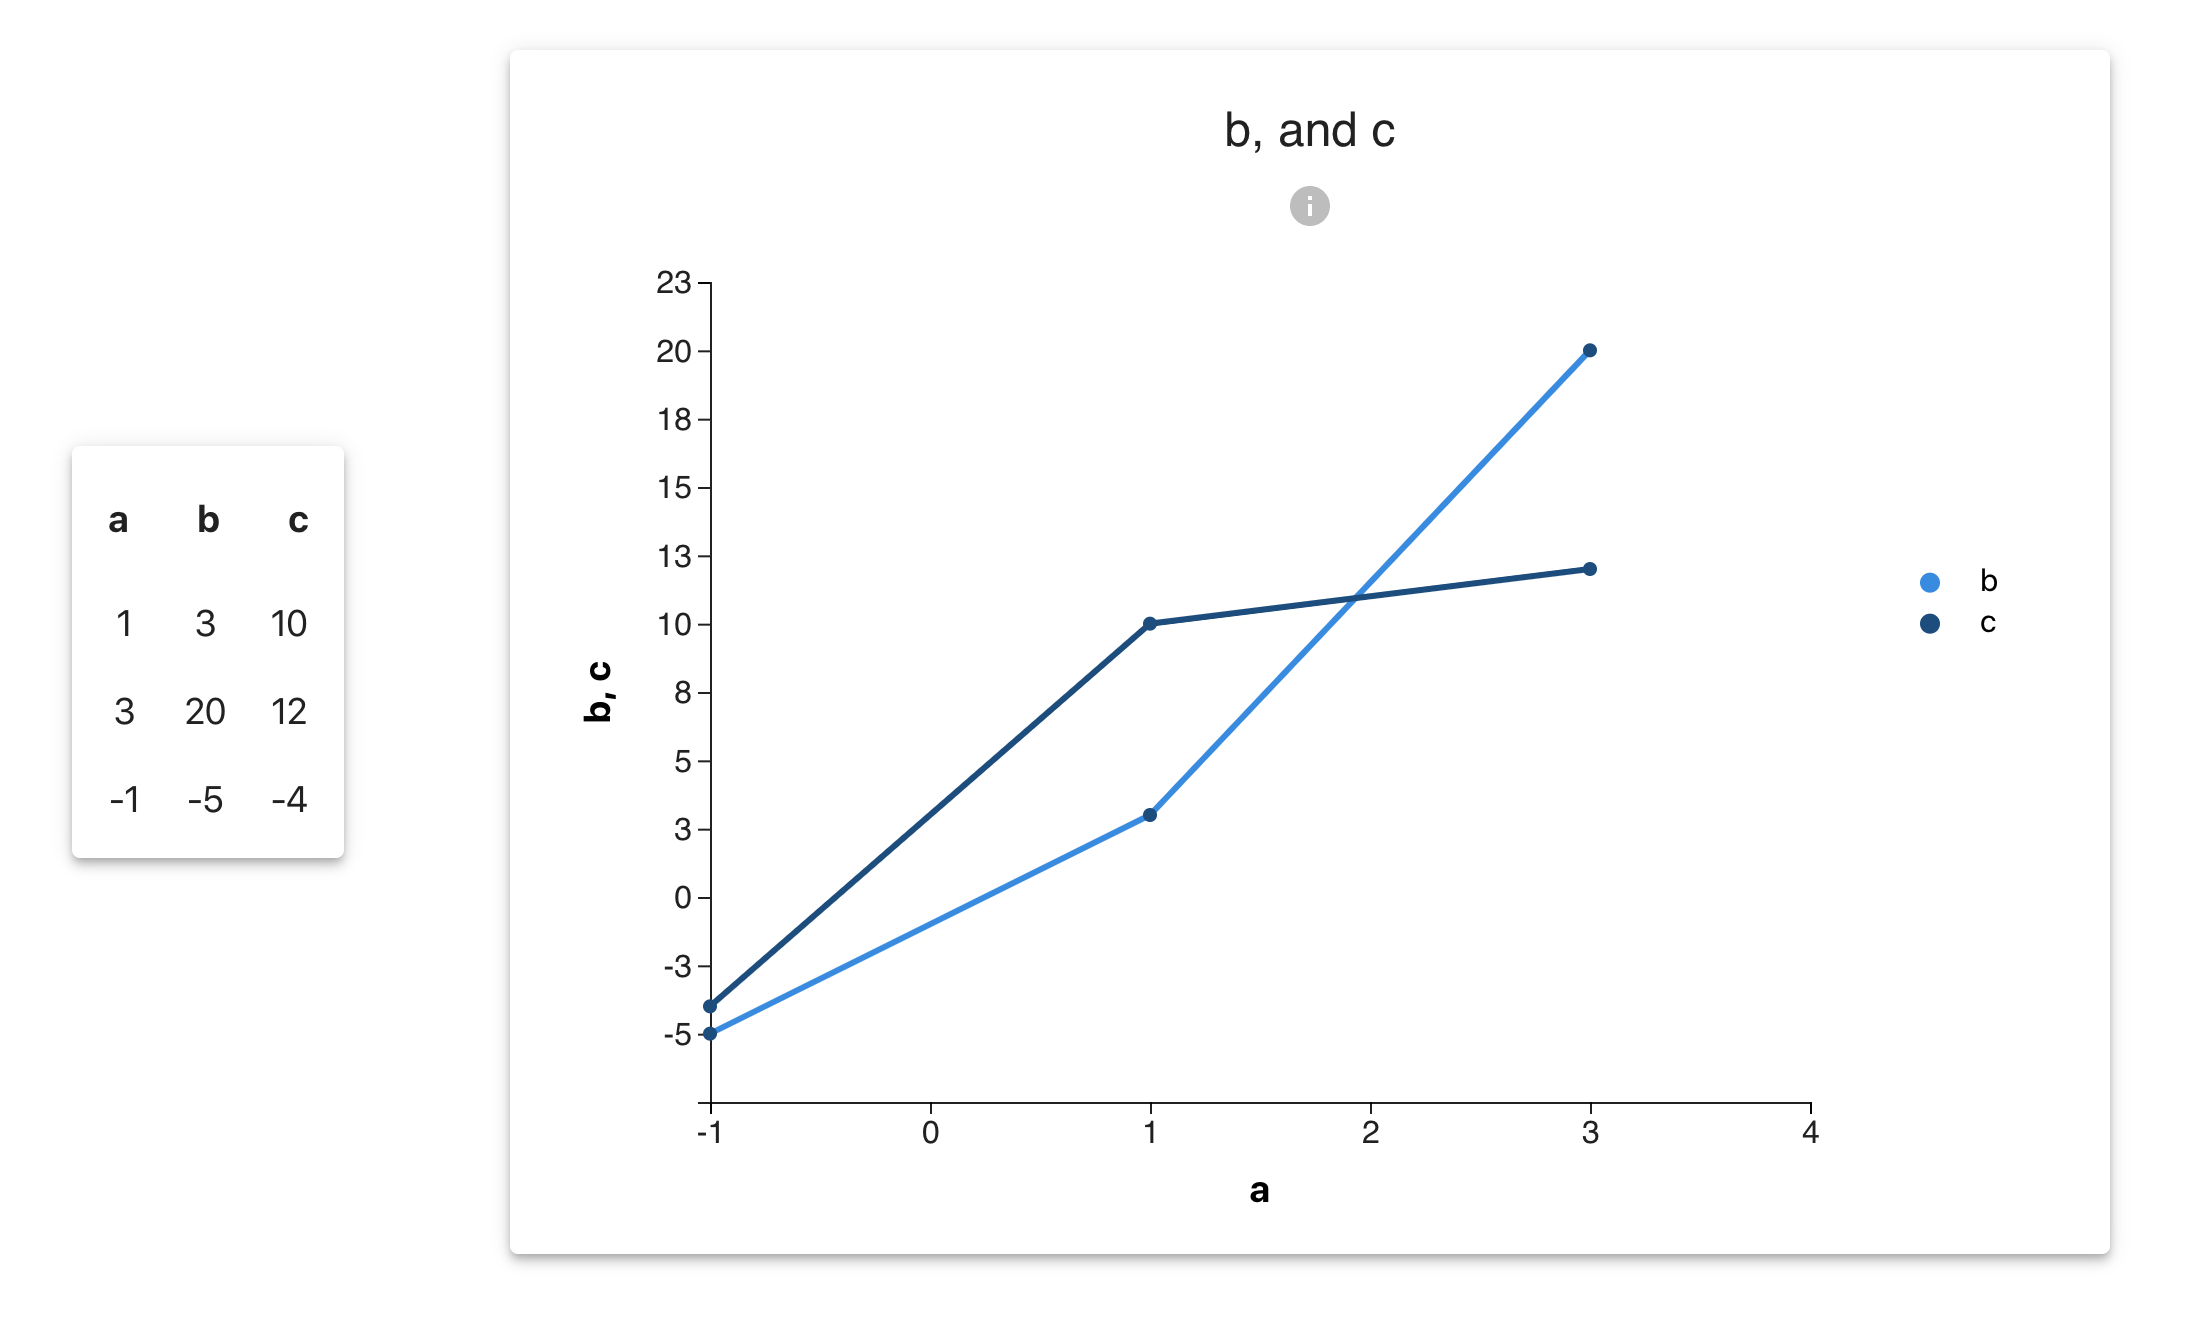
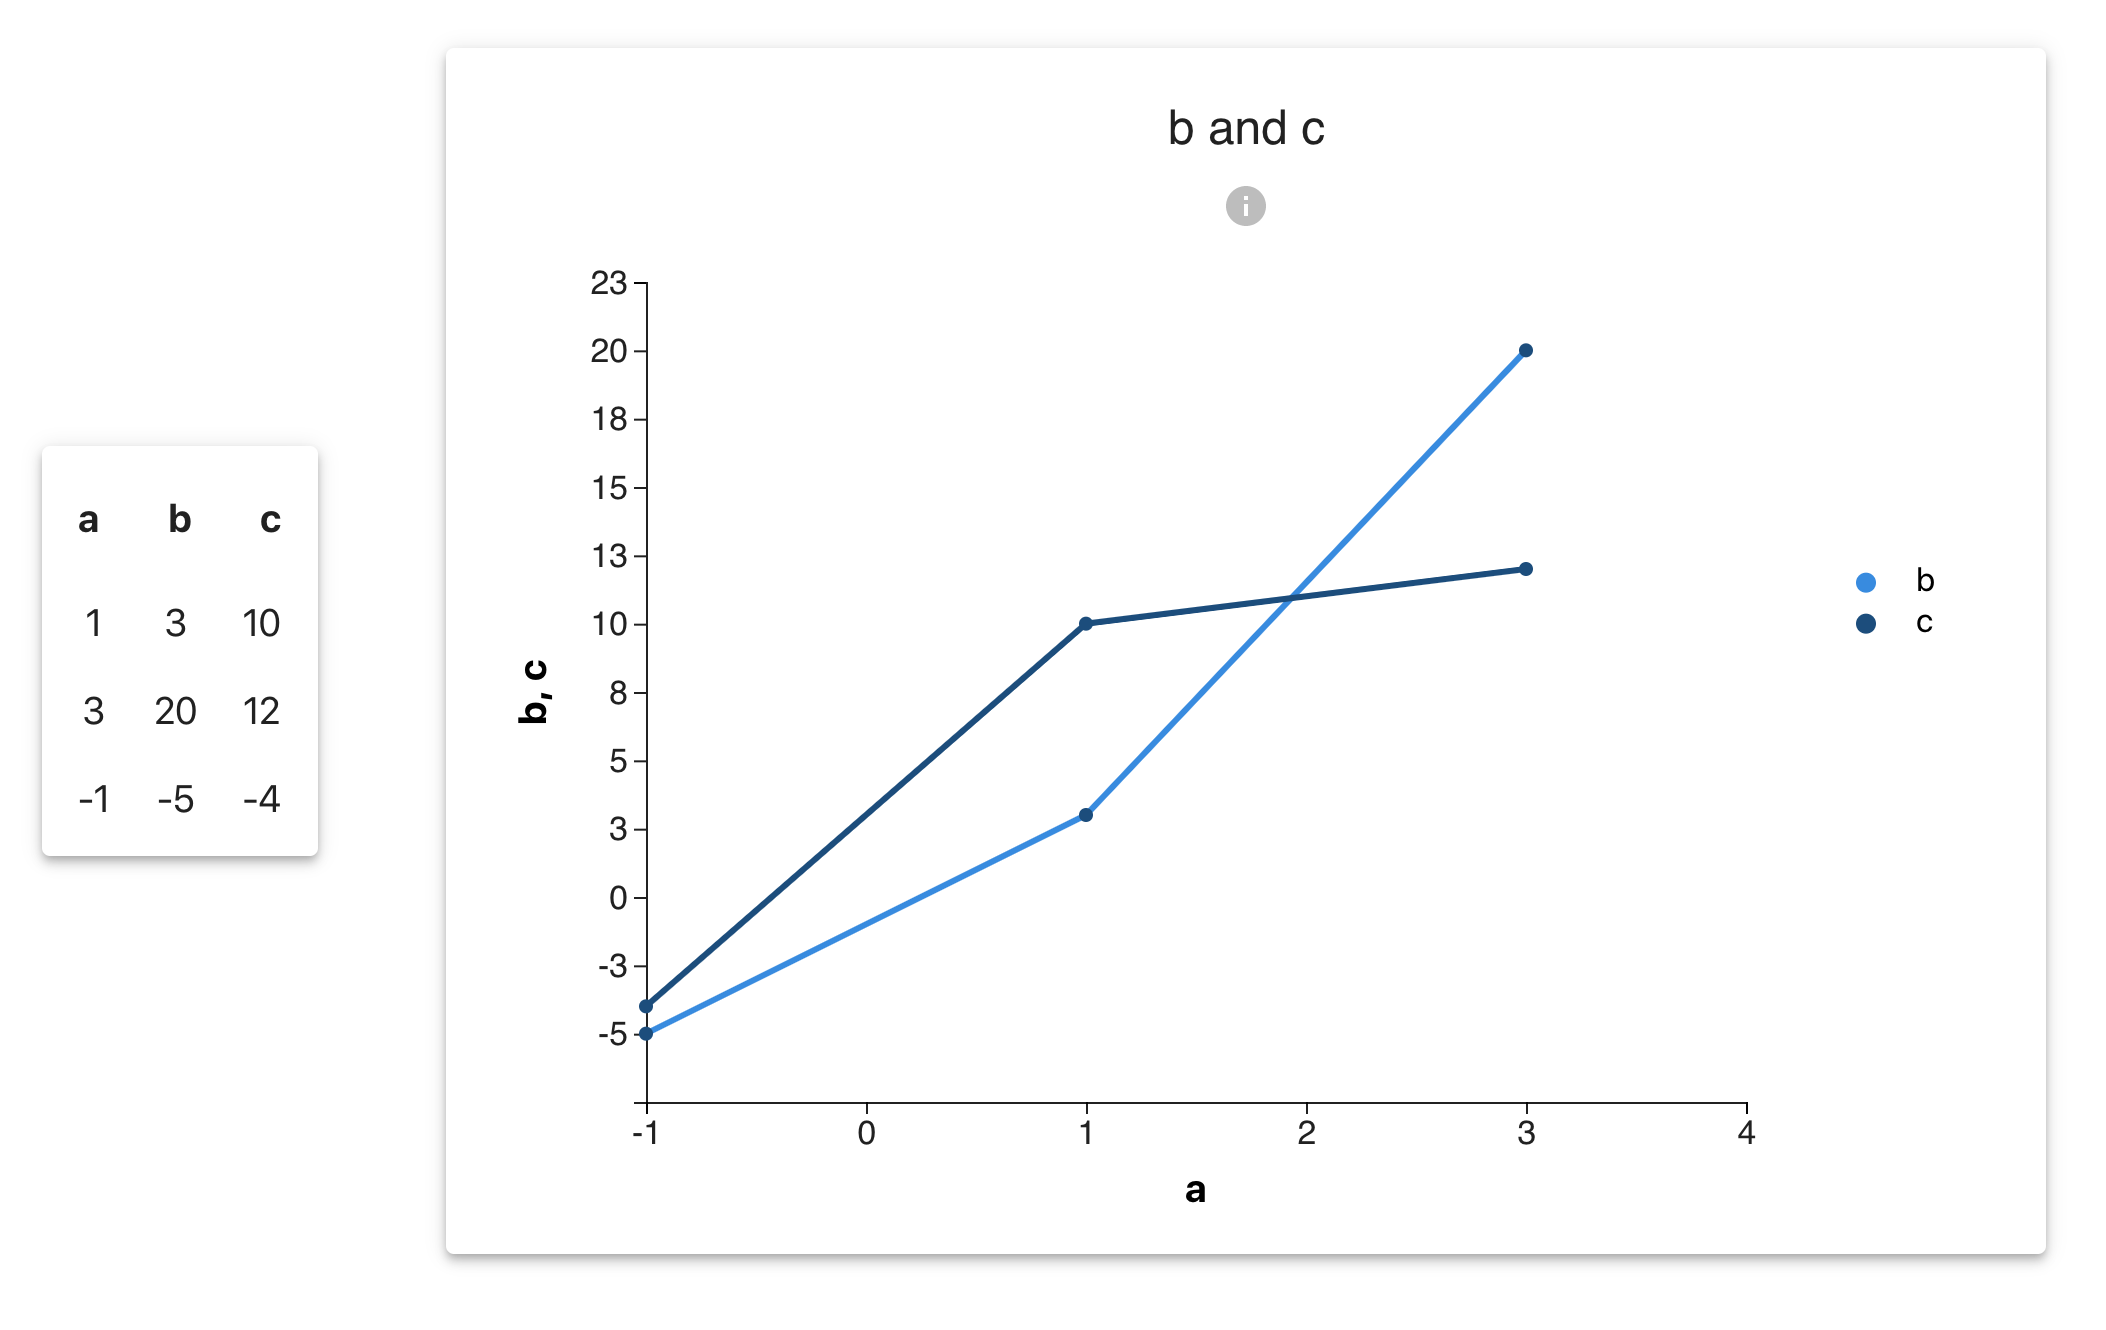
fix: chart title

diff --git a/src/chart-wrapper.js b/src/chart-wrapper.js
@@ -37,7 +37,8 @@ class ChartWrapper extends Component {
     });
     let titleStrFront = titleArr.slice(0, -1).join(', ');
     let titleStrEnd = titleArr.slice(-1);
-    let titleStr = titleStrFront + ', and ' + titleStrEnd;
+    // let titleStr = titleStrFront + ', and ' + titleStrEnd;
+    let titleStr = lineNames.length > 2 ? titleStrFront + ', and ' + titleStrEnd : titleArr[0] + ' and ' + titleArr[1]
 
     return (
       <div>
